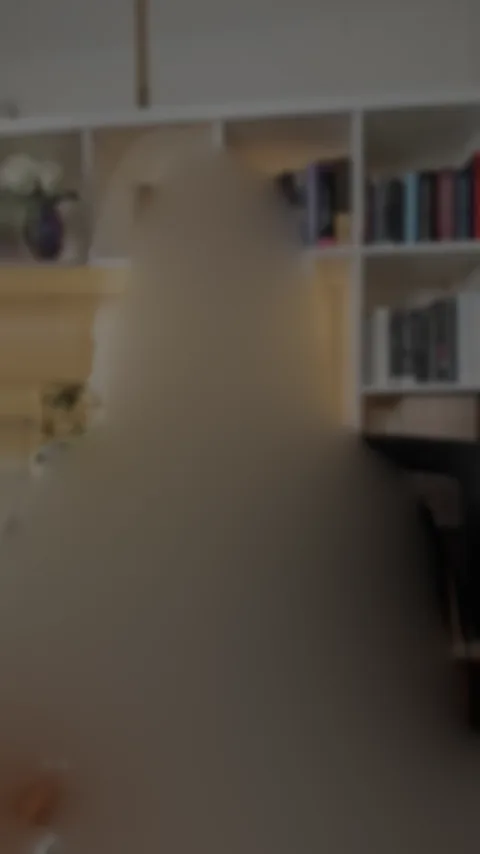
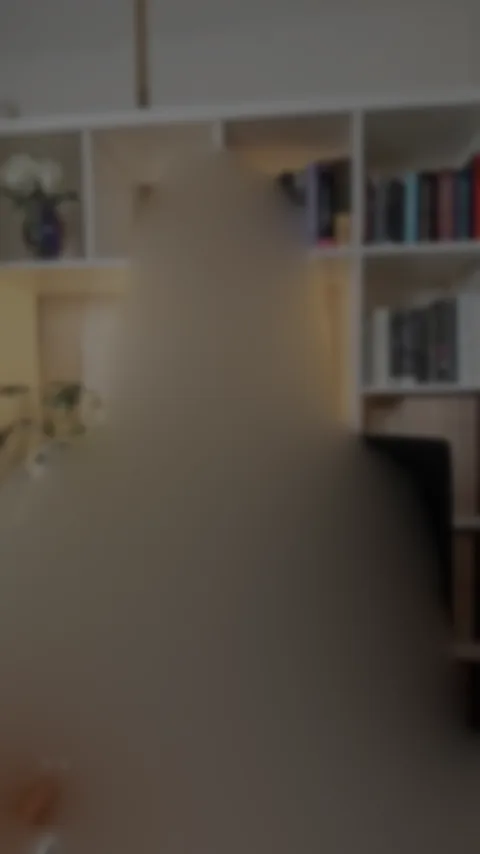
Home page: the zoom card's clip starts after the passer-by has gone
Someone walks past at the left in the first 2.9 s of this take. The zoom card
now plays site/home-zoom-v2.mp4, the same clip cut from 2.9 s (13.8 s to
10.9 s, no pixels edited), with a new still picture. The Cutout card's room is
read from the later frames too, so it is the real cabinet instead of a filled
patch. Upload the new clip to R2 before this goes live. Coach, 26 Nov.

diff --git a/src/components/HomeMedia.tsx b/src/components/HomeMedia.tsx
@@ -15,7 +15,7 @@ export type HomeClip = "before" | "after" | "words" | "frame" | "cutout" | "layo
 const still = (name: HomeClip) => `/landing/${name}-poster.webp`;
 // A clip that was replaced gets a new number here as well as its new file name (api/home-video): browsers keep what
 // an address gave them for a week.
-const CLIP_REV: Partial<Record<HomeClip, number>> = { after: 4 };
+const CLIP_REV: Partial<Record<HomeClip, number>> = { after: 4, zoom: 2 };
 const clipSrc = (name: HomeClip) => `/api/home-video?name=${name}${CLIP_REV[name] ? `&v=${CLIP_REV[name]}` : ""}`;
 
 // Plays while on screen. play: what to do once it is on screen (the After clip starts with sound).

diff --git a/src/app/api/home-video/route.ts b/src/app/api/home-video/route.ts
@@ -12,7 +12,7 @@ const FILES: Record<string, string> = {
 	cutout: "site/home-cutout-v1.mp4",
 	layout: "site/home-layout-v1.mp4",
 	zoo: "site/home-zoo-v1.mp4",
-	zoom: "site/home-zoom-v1.mp4",
+	zoom: "site/home-zoom-v2.mp4",
 	banner: "site/home-banner-v1.mp4",
 };
 
